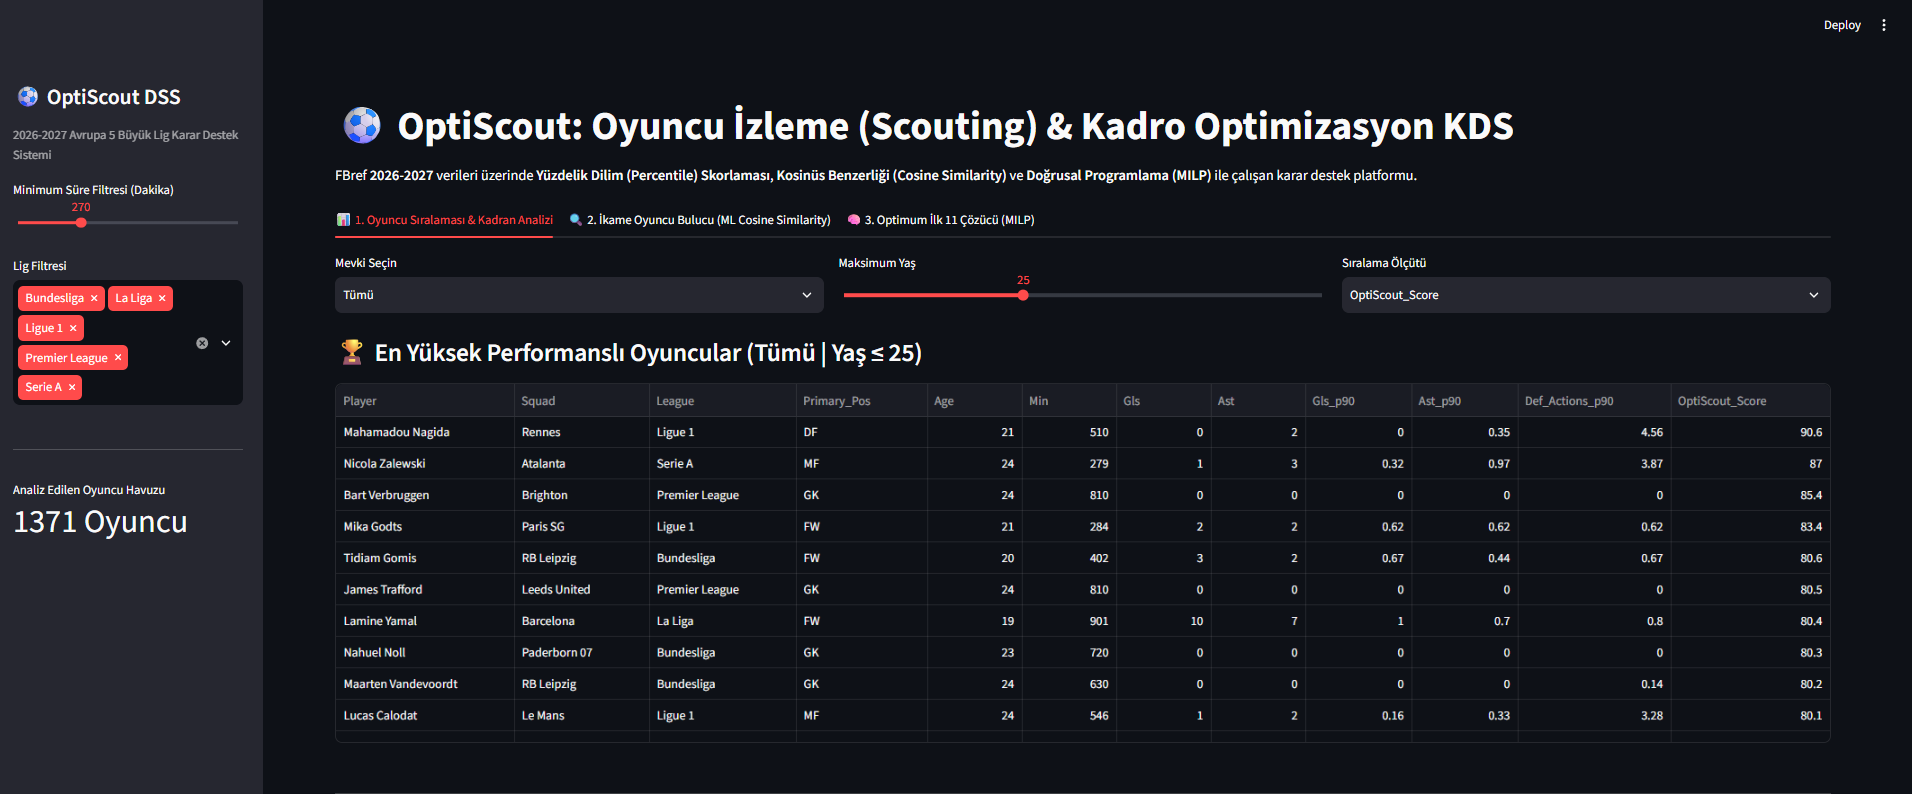
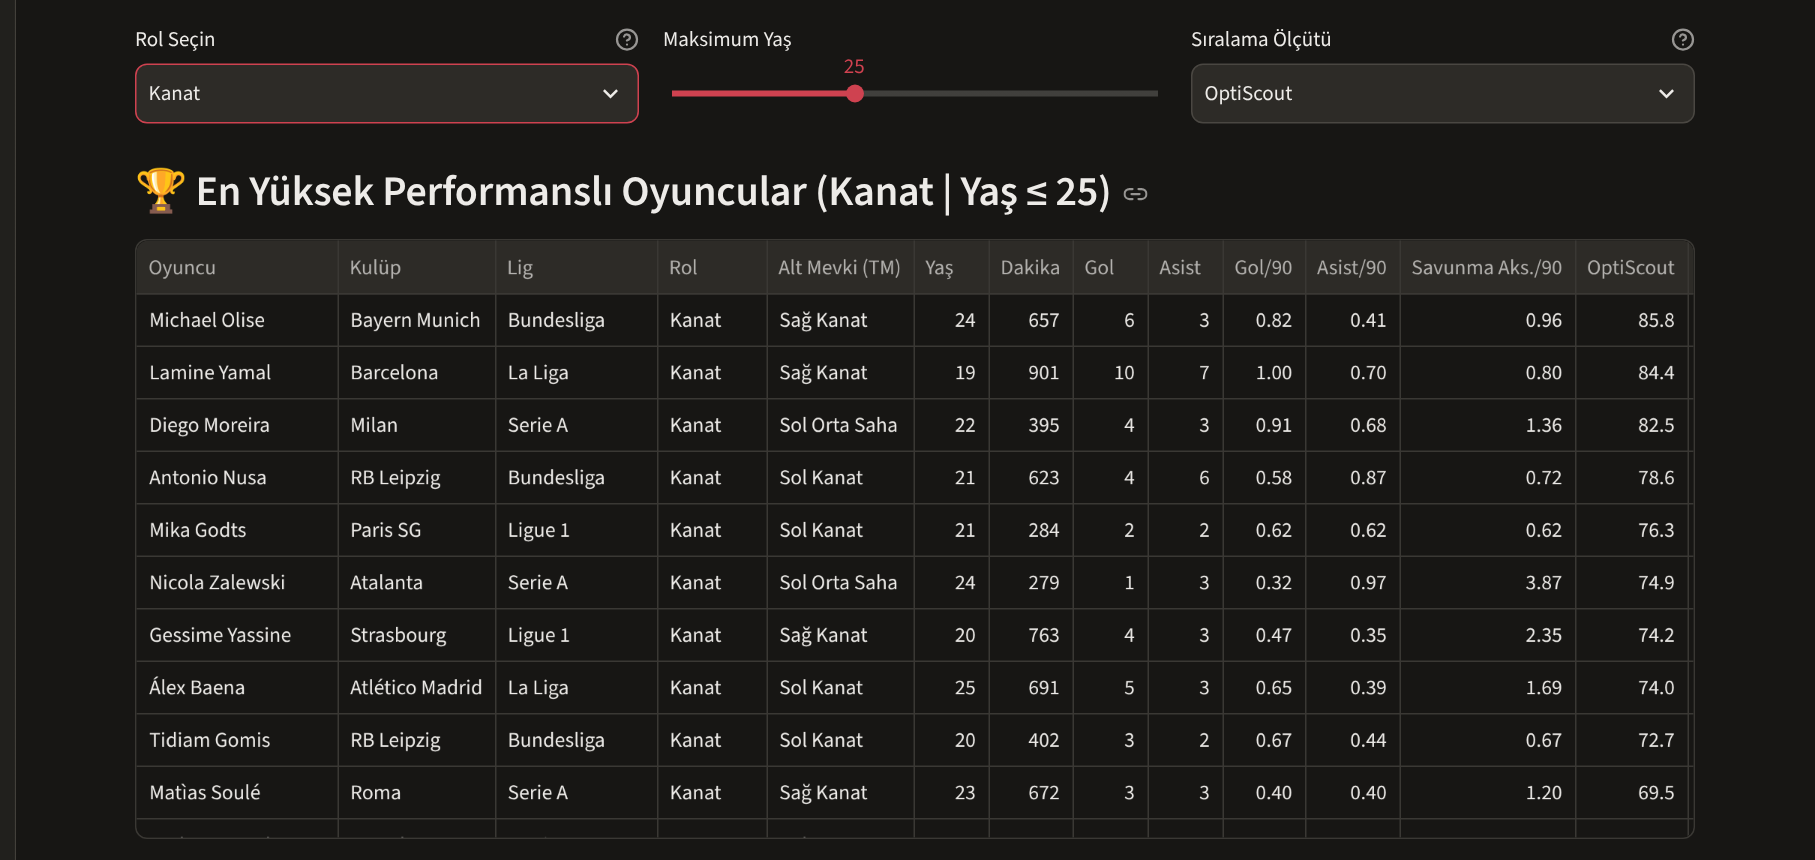
docs: refresh screenshots, add demo GIF; ui: readable Turkish table headers and cleaner charts

diff --git a/app.py b/app.py
@@ -57,6 +57,58 @@ def cached_transfer_plan(min_minutes: int, leagues: tuple, club: str, **kwargs):
     return SquadOptimizer(df).plan_transfers(club, target_leagues=list(leagues), **kwargs)
 
 
+# Tablolarda kod adları yerine okunur Türkçe başlıklar gösterilir
+COLUMN_LABELS = {
+    "Player": "Oyuncu", "Squad": "Kulüp", "League": "Lig", "Age": "Yaş", "Min": "Dakika",
+    "Score_Group": "Rol", "TM_Sub_Position": "Alt Mevki (TM)", "Assigned_Role": "Görev",
+    "Gls": "Gol", "Ast": "Asist", "Gls_p90": "Gol/90", "Ast_p90": "Asist/90",
+    "Def_Actions_p90": "Savunma Aks./90", "GA_non_pk_p90": "PS'siz G+A/90",
+    "OptiScout_Score": "OptiScout", "Effective_Score": "Rol Uyumlu Skor",
+    "Similarity_Score": "Benzerlik", "Market_Value_M": "Piyasa Değeri",
+    "Role_Fit": "Rol Uyumu", "Improvement": "Kazanç",
+    "Attacking_Score": "Hücum", "Creativity_Score": "Yaratıcılık", "Defensive_Score": "Savunma",
+    "Goalkeeping_Score": "Kalecilik", "Discipline_Score": "Disiplin", "Saves_p90": "Kurtarış/90",
+}
+SUB_POSITION_TR = {
+    "Goalkeeper": "Kaleci", "Centre-Back": "Stoper", "Left-Back": "Sol Bek", "Right-Back": "Sağ Bek",
+    "Defensive Midfield": "Ön Libero", "Central Midfield": "Merkez Orta Saha",
+    "Attacking Midfield": "10 Numara", "Left Midfield": "Sol Orta Saha", "Right Midfield": "Sağ Orta Saha",
+    "Left Winger": "Sol Kanat", "Right Winger": "Sağ Kanat", "Second Striker": "İkinci Forvet",
+    "Centre-Forward": "Santrfor",
+}
+
+
+AXIS_LABELS = {
+    "Sh/90": "Şut/90", "SoT/90": "İsabetli Şut/90", "Gls_p90": "Gol/90", "Ast_p90": "Asist/90",
+    "Crs_p90": "Orta/90", "TklW_p90": "Top Kapma/90", "Int_p90": "Araya Girme/90",
+    "GA_non_pk_p90": "Penaltısız Gol+Asist/90", "Def_Actions_p90": "Savunma Aksiyonu/90",
+}
+
+
+def show_table(frame, **kwargs):
+    """st.dataframe sarmalayıcısı: Türkçe başlıklar, rol adları ve sayı biçimleri."""
+    t = frame.copy()
+    if "Score_Group" in t.columns:
+        t["Score_Group"] = t["Score_Group"].map(lambda g: ROLE_GROUP_LABELS.get(g, g))
+    if "TM_Sub_Position" in t.columns:
+        t["TM_Sub_Position"] = t["TM_Sub_Position"].map(lambda v: SUB_POSITION_TR.get(v, v) if isinstance(v, str) else "—")
+    if "Age" in t.columns:
+        t["Age"] = t["Age"].round(0).astype("Int64")
+    t = t.rename(columns=COLUMN_LABELS)
+    config = {
+        "Piyasa Değeri": st.column_config.NumberColumn(format="€%.1fM"),
+        "Rol Uyumu": st.column_config.NumberColumn(format="%.2f"),
+    }
+    for col in ["OptiScout", "Rol Uyumlu Skor", "Benzerlik", "Kazanç", "Hücum", "Yaratıcılık",
+                "Savunma", "Kalecilik", "Disiplin"]:
+        config[col] = st.column_config.NumberColumn(format="%.1f")
+    for col in ["Gol/90", "Asist/90", "Savunma Aks./90", "PS'siz G+A/90", "Kurtarış/90"]:
+        config[col] = st.column_config.NumberColumn(format="%.2f")
+    kwargs.setdefault("hide_index", True)
+    kwargs.setdefault("use_container_width", True)
+    return st.dataframe(t, column_config=config, **kwargs)
+
+
 def fmt_value(v) -> str:
     """Piyasa değerini okunabilir biçimde yazar: 45.0 -> '€45M'."""
     if v is None or v != v:  # None veya NaN
@@ -67,7 +119,9 @@ def fmt_value(v) -> str:
 
 
 def draw_tactical_pitch(xi_df, has_values: bool = False,
-                        title: str = "⚽ Optimum İlk 11 Saha Dizilişi (Taktik Tahtası)") -> go.Figure:
+                        title: str = "⚽ Optimum İlk 11 Saha Dizilişi (Taktik Tahtası)",
+                        home_club: str = None) -> go.Figure:
+    """home_club verilirse o kulübün oyuncularında kulüp adı yazılmaz (dar sahada etiketler kısalır)."""
     fig = go.Figure()
 
     pitch_shapes = [
@@ -81,7 +135,7 @@ def draw_tactical_pitch(xi_df, has_values: bool = False,
 
     # Takım soldan sağa hücum eder: x = derinlik, y = genişlik (y yüksek = sol kanat)
     role_xy = {
-        "GK": (6, [50]),
+        "GK": (5, [50]),
         "CB": (22, None), "LB": (27, [88]), "RB": (27, [12]),
         "LWB": (40, [86]), "RWB": (40, [14]),
         "DM": (40, None), "CM": (53, None), "AM": (66, None),
@@ -89,9 +143,10 @@ def draw_tactical_pitch(xi_df, has_values: bool = False,
         "LW": (77, [84]), "RW": (77, [16]),
         "ST": (86, None),
     }
-    central_spread = {1: [50], 2: [36, 64], 3: [26, 50, 74]}
+    central_spread = {1: [50], 2: [33, 67], 3: [26, 50, 74]}
     group_colors = {"GK": "#f59e0b", "DF": "#3b82f6", "MF": "#10b981", "FW": "#ef4444"}
 
+    three_cb = int((xi_df["Assigned_Role"] == "CB").sum()) >= 3
     for group in ["GK", "DF", "MF", "FW"]:
         xs, ys, labels, ring_colors, ring_widths = [], [], [], [], []
         group_df = xi_df[xi_df["Assigned_Pos"] == group]
@@ -106,7 +161,7 @@ def draw_tactical_pitch(xi_df, has_values: bool = False,
                 ring_widths.append(5 if is_new else 2)
                 labels.append(
                     f"<b>{'★ ' if is_new else ''}{row['Player']}</b>{'*' if row['Out_Of_Position'] else ''}"
-                    f"<br>{role} · {row['Squad']} ("
+                    f"<br>{role}{'' if row['Squad'] == home_club else ' · ' + row['Squad']} ("
                     f"{row['OptiScout_Score']}"
                     f"{'→' + str(row['Effective_Score']) if row['Out_Of_Position'] and 'Effective_Score' in row else ''})"
                     f"{' · ' + fmt_value(row['Market_Value_M']) if has_values else ''}"
@@ -120,8 +175,9 @@ def draw_tactical_pitch(xi_df, has_values: bool = False,
                 mode="markers+text",
                 marker=dict(size=26, color=group_colors[group], line=dict(width=ring_widths, color=ring_colors)),
                 text=labels,
-                # Kaleci etiketi altta: 3'lü savunmada ortadaki stoperin etiketiyle çakışmasın
-                textposition="bottom center" if group == "GK" else "top center",
+                # Kaleci etiketi: 3'lü savunmada ortadaki stoperin etiketiyle çakışmasın diye
+                # altta, 4'lü savunmada stoper etiketleriyle çakışmasın diye üstte
+                textposition=("bottom center" if three_cb else "top center") if group == "GK" else "top center",
                 textfont=dict(color="white", size=11),
                 name=group,
             )
@@ -207,6 +263,7 @@ with tab1:
         sort_metric = st.selectbox(
             "Sıralama Ölçütü",
             sort_options,
+            format_func=lambda c: COLUMN_LABELS.get(c, c),
             help="Hücum/Yaratıcılık/Savunma gibi alt skorlar rol içinde hesaplanır; "
                  "roller arası karşılaştırılamadığı için yalnızca bir rol seçiliyken listelenir.",
         )
@@ -223,30 +280,45 @@ with tab1:
         "Player", "Squad", "League", "Score_Group", "TM_Sub_Position", "Age", "Min",
         "Gls", "Ast", "Gls_p90", "Ast_p90", "Def_Actions_p90", "OptiScout_Score"
     ] + (["Market_Value_M"] if has_values else [])
-    st.dataframe(view_df[display_cols].head(25), hide_index=True)
+    show_table(view_df[display_cols].head(25), hide_index=True)
 
     st.markdown("---")
     st.subheader("🎯 Dört Kadran Performans Haritası (Outlier Tespiti)")
     c_x, c_y = st.columns(2)
     with c_x:
-        x_axis_col = st.selectbox("X Ekseni", ["Sh/90", "Gls_p90", "Ast_p90", "Crs_p90", "TklW_p90"], index=0)
+        x_axis_col = st.selectbox(
+            "X Ekseni", ["Sh/90", "Gls_p90", "Ast_p90", "Crs_p90", "TklW_p90"], index=0,
+            format_func=lambda c: AXIS_LABELS.get(c, c),
+        )
     with c_y:
-        y_axis_col = st.selectbox("Y Ekseni", ["Gls_p90", "SoT/90", "GA_non_pk_p90", "Int_p90", "Def_Actions_p90"], index=0)
+        y_axis_col = st.selectbox(
+            "Y Ekseni", ["Gls_p90", "SoT/90", "GA_non_pk_p90", "Int_p90", "Def_Actions_p90"], index=0,
+            format_func=lambda c: AXIS_LABELS.get(c, c),
+        )
+
+    # Okunabilirlik: yalnızca en yüksek skorlu oyuncuların adı yazılır, diğerleri fareyle görülür
+    plot_df = view_df.head(150).copy()
+    plot_df["Rol"] = plot_df["Score_Group"].map(lambda g: ROLE_GROUP_LABELS.get(g, g))
+    top_keys = set(plot_df.nlargest(15, "OptiScout_Score")["Row_Key"])
+    plot_df["Etiket"] = plot_df.apply(lambda r: r["Player"] if r["Row_Key"] in top_keys else "", axis=1)
+    x_label, y_label = AXIS_LABELS.get(x_axis_col, x_axis_col), AXIS_LABELS.get(y_axis_col, y_axis_col)
 
     fig_scatter = px.scatter(
-        view_df.head(150),
+        plot_df,
         x=x_axis_col,
         y=y_axis_col,
-        color="Score_Group",
+        color="Rol",
         size="OptiScout_Score",
         hover_name="Player",
-        hover_data=["Squad", "League", "Age", "Min", "OptiScout_Score"],
-        text="Player",
+        hover_data={"Squad": True, "League": True, "Age": True, "Min": True,
+                    "OptiScout_Score": True, "Rol": False, "Etiket": False},
+        text="Etiket",
+        labels={x_axis_col: x_label, y_axis_col: y_label, **COLUMN_LABELS},
         template="plotly_dark",
         height=550,
-        title=f"{x_axis_col} vs {y_axis_col} (İlk 150 Oyuncu)"
+        title=f"{x_label} vs {y_label} · ilk {len(plot_df)} oyuncu (en iyi 15'in adı gösteriliyor)",
     )
-    fig_scatter.update_traces(textposition="top center", textfont_size=10)
+    fig_scatter.update_traces(textposition="top center", textfont_size=11)
     fig_scatter.add_vline(x=view_df[x_axis_col].median(), line_dash="dash", line_color="gray")
     fig_scatter.add_hline(y=view_df[y_axis_col].median(), line_dash="dash", line_color="gray")
     st.plotly_chart(fig_scatter)
@@ -287,10 +359,9 @@ with tab2:
     col_table, col_radar = st.columns([3, 2])
     with col_table:
         sim_cols = [
-            "Player", "Squad", "League", "Age", "Min",
-            "Similarity_Score", "OptiScout_Score", "Gls_p90", "Ast_p90", "Def_Actions_p90"
+            "Player", "Squad", "Age", "Similarity_Score", "OptiScout_Score", "Gls_p90", "Ast_p90",
         ] + (["Market_Value_M"] if has_values else [])
-        st.dataframe(similar_df[sim_cols], hide_index=True)
+        show_table(similar_df[sim_cols], hide_index=True)
         st.caption(
             "Benzerlik Skoru = kosinüs benzerliği × 100. 100: aynı profil, "
             "0: ilişkisiz, negatif: zıt profil."
@@ -336,20 +407,23 @@ with tab2:
             fig_radar.update_layout(
                 polar=dict(radialaxis=dict(visible=True, range=[0, 100])),
                 template="plotly_dark",
-                title="Yüzdelik Dilim (0-100) Profil Karşılaştırması"
+                title="Profil Karşılaştırması (rol içi 0-100)",
+                legend=dict(orientation="h", yanchor="top", y=-0.08, xanchor="center", x=0.5),
+                margin=dict(l=60, r=60, t=60, b=40),
             )
             st.plotly_chart(fig_radar)
 
 with tab3:
     st.subheader("🧠 Doğrusal Programlama (MILP) ile Kısıtlı Optimum İlk 11")
 
-    o1, o2, o3, o4, o5 = st.columns(5)
+    o1, o2, o3 = st.columns(3)
     with o1:
         formation = st.selectbox("Taktik Diziliş", ["4-3-3", "4-2-3-1", "3-5-2", "3-4-3", "4-4-2"])
     with o2:
         max_club = st.slider("Kulüp Başına Maksimum Oyuncu", 1, 5, 2)
     with o3:
         max_avg_age = st.slider("Kadro Maksimum Yaş Ortalaması", 20.0, 32.0, 26.5, 0.5)
+    o4, o5 = st.columns(2)
     with o4:
         exclude_giants = st.checkbox("Dev Kulüpleri Dışla (Fırsat 11'i)", value=False)
     with o5:
@@ -431,13 +505,13 @@ with tab3:
             if xi_df["Out_Of_Position"].any():
                 st.caption("* Doğal rolü dışında oynatılan oyuncu (skoru uygunluk katsayısıyla indirimli)")
         with col_xi_table:
-            st.dataframe(
+            show_table(
                 xi_df[[
                     "Assigned_Role", "Player", "TM_Sub_Position", "Squad", "League", "Age",
                     "Min", "Gls", "Ast", "OptiScout_Score"
                 ] + (["Market_Value_M"] if has_values else [])],
                 hide_index=True,
-                height=480,
+                height=(len(xi_df) + 1) * 35 + 3,
             )
     else:
         st.error(
@@ -551,10 +625,10 @@ with tab4:
 
             pc1, pc2 = st.columns(2)
             with pc1:
-                st.plotly_chart(draw_tactical_pitch(base["squad"], True, f"Mevcut 11 · {club}"))
+                st.plotly_chart(draw_tactical_pitch(base["squad"], True, f"Mevcut 11 · {club}", home_club=club))
             with pc2:
                 if after["status"] == "Optimal":
-                    st.plotly_chart(draw_tactical_pitch(after["squad"], True, "Transfer Sonrası 11 (★ = yeni transfer)"))
+                    st.plotly_chart(draw_tactical_pitch(after["squad"], True, "Transfer Sonrası 11 (★ = yeni)", home_club=club))
 
             if base["squad"]["Role_Fit"].le(0.5).any():
                 st.caption(
@@ -565,9 +639,9 @@ with tab4:
             g1, g2 = st.columns(2)
             with g1:
                 st.markdown("**🔻 En zayıf mevkiler (boşluklar)**")
-                st.dataframe(
+                show_table(
                     plan["gaps"][["Assigned_Role", "Player", "TM_Sub_Position", "Role_Fit",
-                                  "OptiScout_Score", "Effective_Score"]],
+                                  "Effective_Score"]],
                     hide_index=True,
                 )
             with g2:
@@ -575,14 +649,14 @@ with tab4:
                 if plan["signings"].empty:
                     st.write("Bu bütçeyle mevcut 11'i iyileştiren bir transfer bulunamadı.")
                 else:
-                    st.dataframe(
-                        plan["signings"][["Assigned_Role", "Player", "Squad", "League", "Age",
+                    show_table(
+                        plan["signings"][["Assigned_Role", "Player", "Squad",
                                           "Market_Value_M", "Effective_Score"]],
                         hide_index=True,
                     )
                 if not plan["dropped"].empty:
                     st.markdown("**↘ İlk 11'den çıkanlar**")
-                    st.dataframe(
+                    show_table(
                         plan["dropped"][["Assigned_Role", "Player", "Effective_Score"]],
                         hide_index=True,
                     )
@@ -597,7 +671,7 @@ with tab4:
                     if cand.empty:
                         st.write("Bütçeye sığan daha iyi bir aday yok.")
                     else:
-                        st.dataframe(
+                        show_table(
                             cand[["Player", "Squad", "League", "Age", "TM_Sub_Position",
                                   "Market_Value_M", "Effective_Score", "Improvement"]],
                             hide_index=True,

diff --git a/README.md b/README.md
@@ -5,6 +5,8 @@
 
 Avrupa'nın 5 büyük ligindeki (Premier League, La Liga, Serie A, Bundesliga, Ligue 1) **2026-2027 sezonu FBref** verileri üzerine inşa edilmiş; **Veri Mühendisliği**, **İstatistiksel Benzerlik Analizi (Cosine Similarity)** ve **Yöneylem Araştırması (Mixed-Integer Linear Programming - MILP)** yöntemlerini birleştiren interaktif bir **Karar Destek Sistemi (Decision Support System - DSS)**.
 
+![OptiScout demo](images/demo.gif)
+
 ---
 
 ## 🎯 Projenin Amacı ve Çözülen Problemler
@@ -31,17 +33,26 @@ Modern futbol analitiğinde oyuncu izleme (scouting) ve kadro planlama süreçle
 
 ## 📸 Uygulama Ekran Görüntüleri
 
-### 1. Oyuncu Sıralaması ve Performans Skorlaması
-![Overview](images/overview.png)
+### 1. Rol Bazlı Oyuncu Sıralaması
+Skorlar rol içinde hesaplanır: kanatlar kanatlarla, bekler beklerle kıyaslanır.
+![Rol bazlı sıralama](images/overview.png)
 
 ### 2. Dört Kadran Performans Haritası (Outlier Tespiti)
-![Quadrant Analysis](images/quadrant.png)
+![Dört kadran haritası](images/quadrant.png)
 
 ### 3. Kosinüs Benzerliği ile İkame Oyuncu & Wonderkid Keşfi
-![Similarity Engine](images/similarity.png)
+![Benzerlik motoru](images/similarity.png)
 
-### 4. Doğrusal Programlama (MILP) ile Kısıtlı Optimum İlk 11 ve Taktik Tahtası
-![Optimal XI](images/optimal_xi.png)
+### 4. Bütçe Kısıtlı Optimum İlk 11 (MILP) ve Taktik Tahtası
+![Optimum ilk 11](images/optimal_xi.png)
+
+### 5. Bütçe - Performans Eğrisi
+Model farklı bütçeler için yeniden çözülür; eğrinin düzleştiği nokta ek harcamanın artık anlamlı getiri sağlamadığı bütçedir.
+![Bütçe-performans eğrisi](images/budget_frontier.png)
+
+### 6. Kulüp Boşluk Analizi & Transfer Planı
+Juventus örneği: kadroda doğal sol bek olmadığı için bir stoper sol bekte oynar; model bütçe içinde sol bek ve santrfor transferi önerir (★ = yeni transfer).
+![Transfer planı](images/transfer_plan.png)
 
 ---
 
